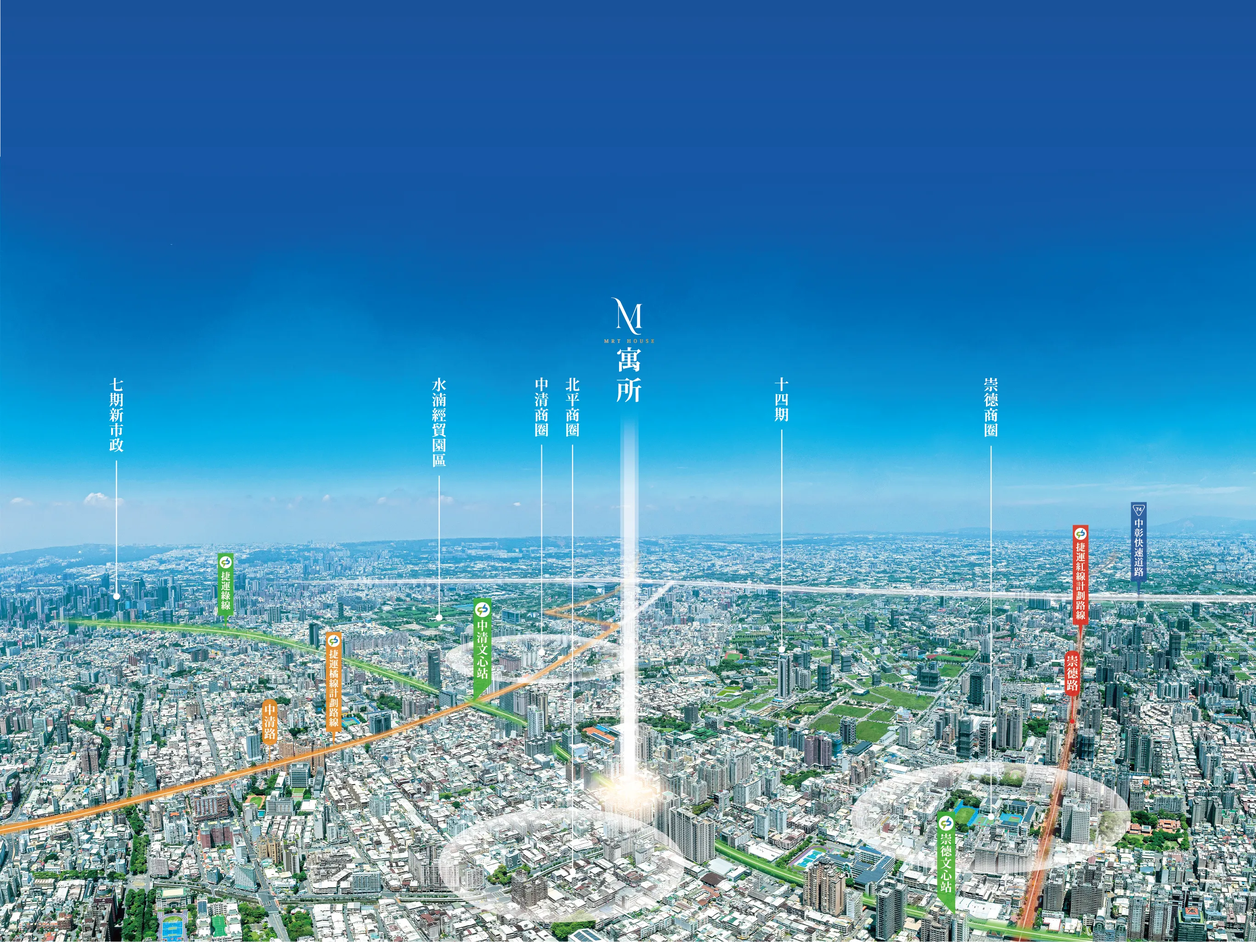
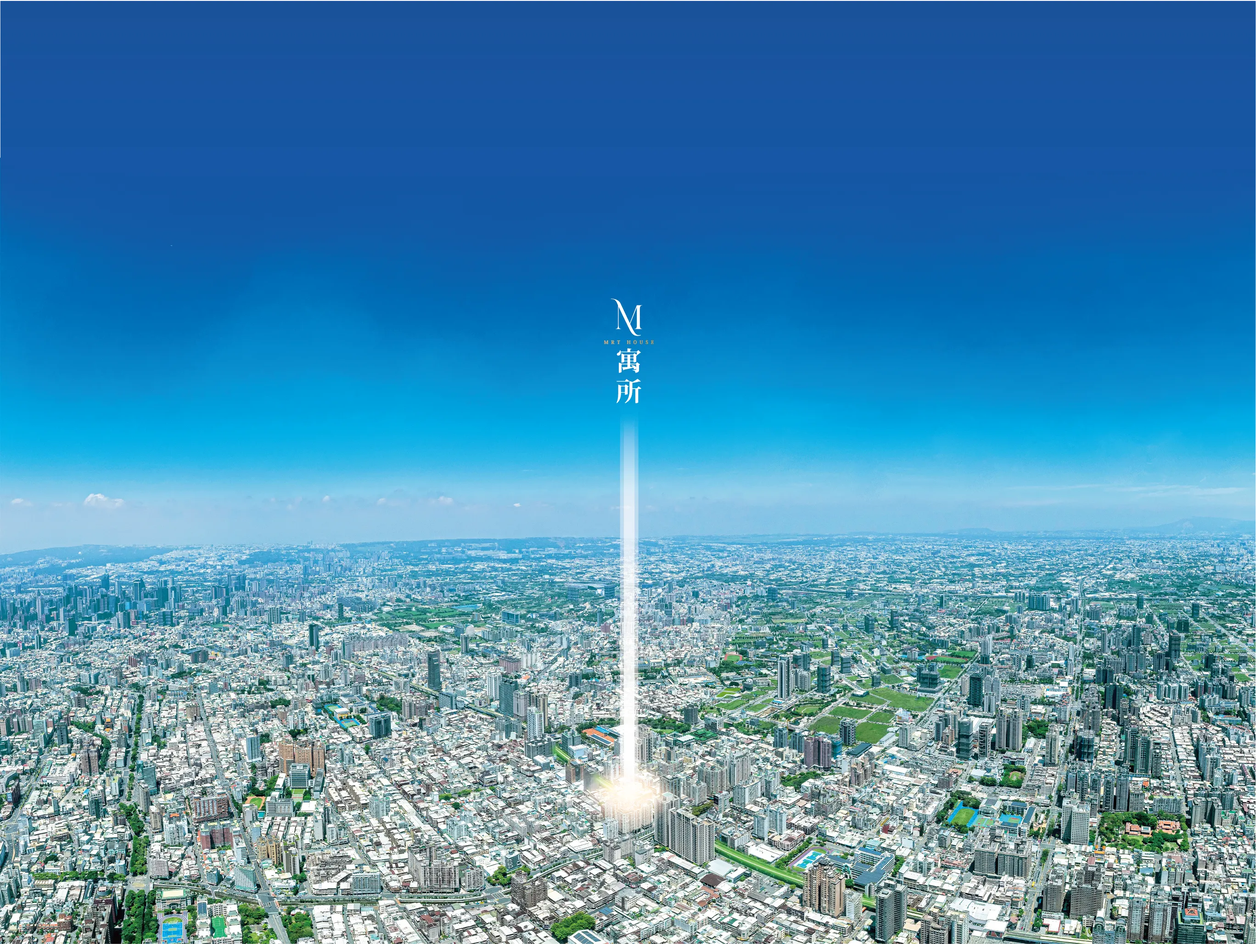
feat. 空拍圖加雲動態

diff --git a/src/views/mansion/MansionIndex/MansionIndexView.vue b/src/views/mansion/MansionIndex/MansionIndexView.vue
@@ -77,18 +77,33 @@ const linkBoxList = [
 ]
 
 onMounted(() => {
-  const tl = gsap.timeline({ delay: 1 })
-  tl.from('.link-box', {
-    autoAlpha: 0,
-
-    duration: 1,
-    // ease: 'back.out(1.7)',
-    ease: 'back.out(0.5)', // 彈性效果
-    stagger: {
-      each: 0.08,
-      from: 'center',
+  const tl = gsap.timeline({ delay: 0.5 })
+  tl.fromTo(
+    '.mansion-menu-view .bg',
+    {
+      autoAlpha: 0,
+      filter: 'brightness(2) blur(6px)',
     },
-  })
+    {
+      filter: 'brightness(1) blur(0px)',
+      duration: 1,
+      autoAlpha: 1,
+      ease: 'power1.inOut',
+    },
+  ).from(
+    '.link-box',
+    {
+      autoAlpha: 0,
+      duration: 1,
+      filter: 'blur(5px)',
+      // ease: 'back.out(0.5)', // 彈性效果
+      stagger: {
+        each: 0.08,
+        from: 'center',
+      },
+    },
+    '0.35',
+  )
 
   // tl.from('.link-box', {
   //   autoAlpha: 0,

diff --git a/src/views/metro/aerialPhoto/ArialPhotoView.vue b/src/views/metro/aerialPhoto/ArialPhotoView.vue
@@ -1,7 +1,13 @@
 <template>
   <section class="arial-view" id="content-box-container">
+    <img class="front-cloud1" src="/src/assets/img/metro/cloud8.png" alt="cloud8" style="--i: 2" />
+
     <div class="img-box">
-      <img src="/src/assets/img/metro/arial.webp" alt="" class="arial-img" />
+      <picture>
+        <source srcset="/src/assets/img/metro/tablet.webp" media="(max-width: 1400px)" />
+        <img src="/src/assets/img/metro/arial.webp" alt="" class="arial-img" />
+      </picture>
+
       <video class="light-video" autoplay loop muted playsinline>
         <source
           src="https://ws.srl.tw/cs/2024050617332581/img/img2024050718025926.mp4"
@@ -171,7 +177,6 @@ const initGsap = () => {
     duration: 1,
     ease: 'power1.inOut',
   })
-
     .from(splitbTitle.chars, {
       y: 70,
       opacity: 0,

diff --git a/src/assets/scss/metro/_arial-photo.scss b/src/assets/scss/metro/_arial-photo.scss
@@ -6,6 +6,32 @@
   width: 100%;
   position: relative;
   overflow: hidden;
+  .front-cloud1 {
+    position: absolute;
+    bottom: -5vw;
+    left: -2vw;
+    width: 40vw;
+    z-index: 10;
+    pointer-events: none;
+    max-width: 100%;
+    animation: animate calc(4s * var(--i)) linear infinite;
+  }
+  @keyframes animate {
+    0% {
+      opacity: 0;
+      transform: scale(1);
+    }
+
+    25%,
+    75% {
+      opacity: 1;
+    }
+
+    100% {
+      transform: scale(1.85);
+      opacity: 0;
+    }
+  }
 
   .img-box {
     width: 100%;
